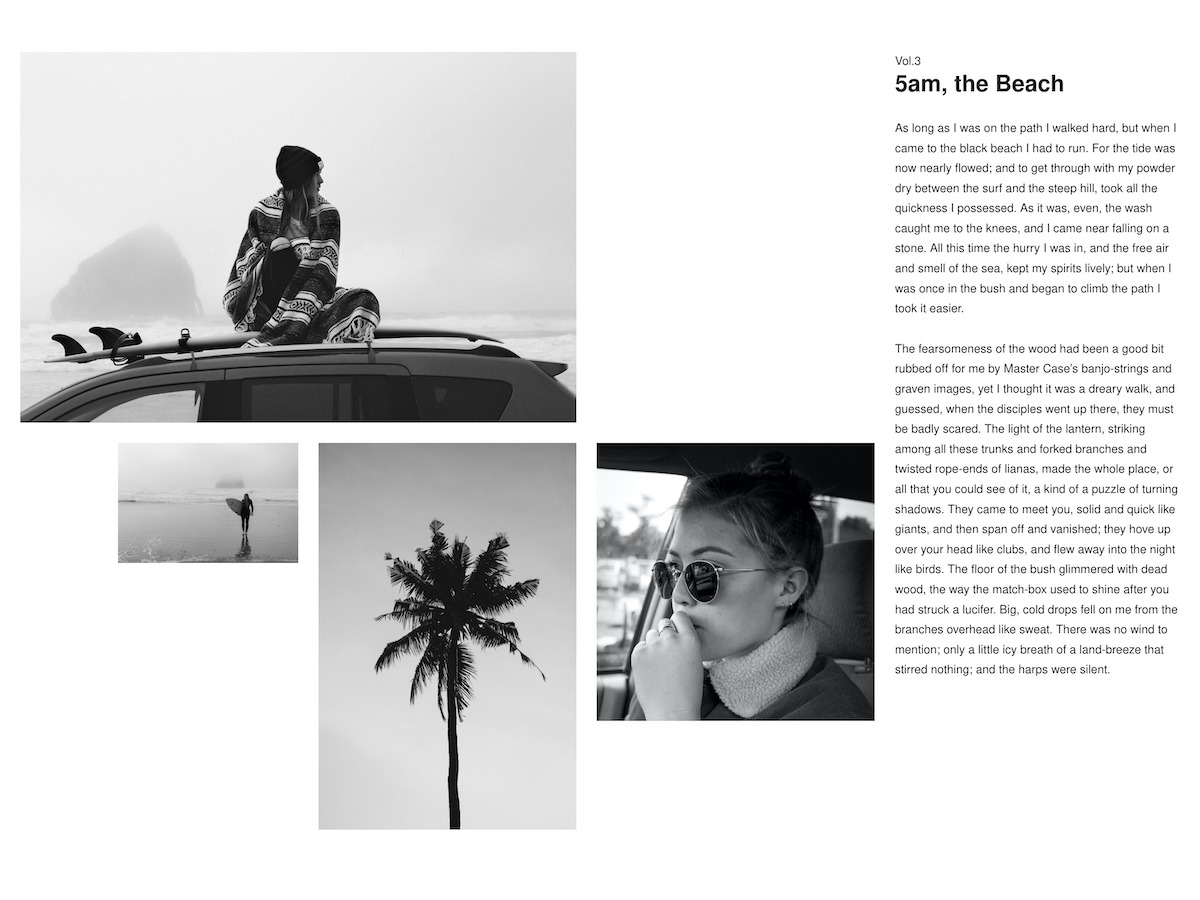
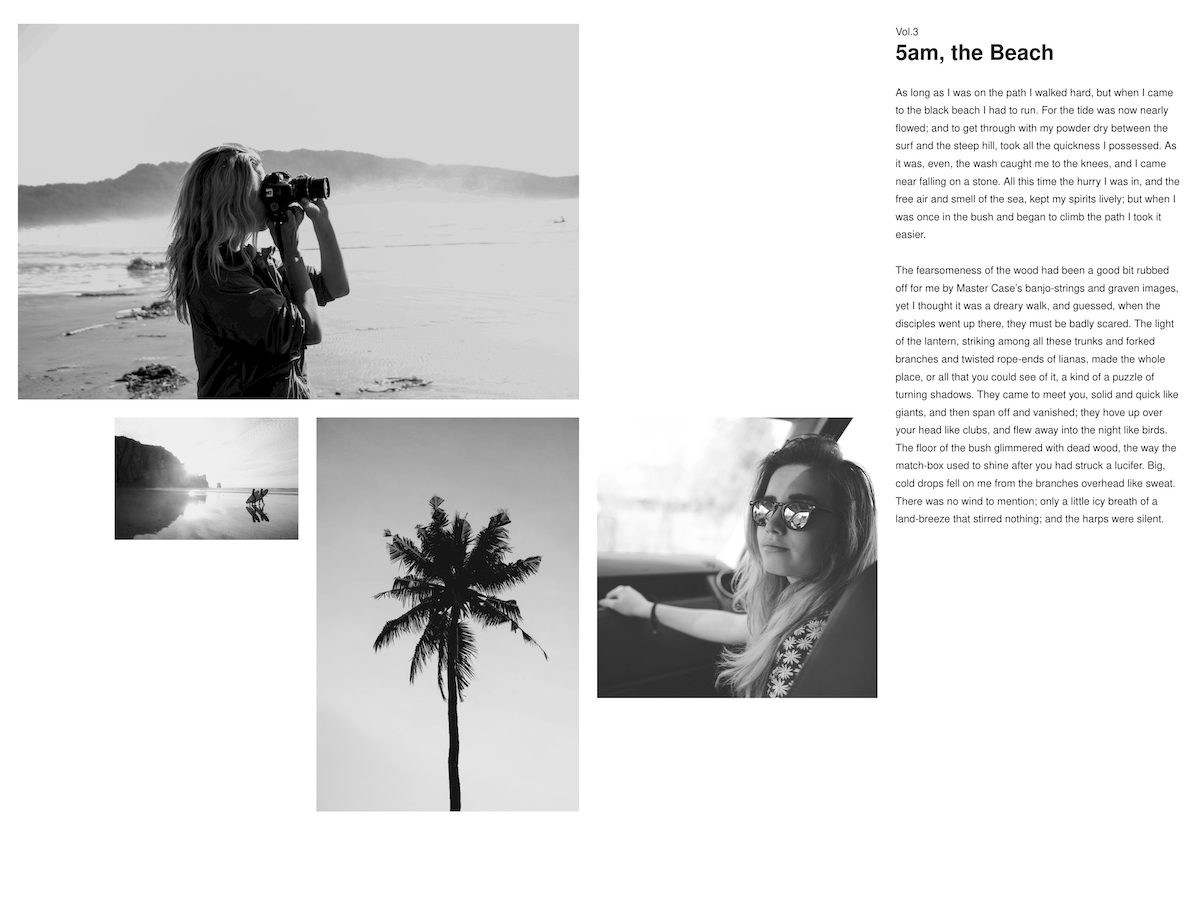
Replace images
Replace images with the wrong license, update readme, screenshot, and homepage pattern.

Changed region(s): [[0.0, 0.0, 0.9867, 0.8089], [0.2467, 0.56, 0.4933, 0.9333]]

diff --git a/storia/patterns/gallery.php b/storia/patterns/gallery.php
@@ -12,8 +12,8 @@
 <div class="wp-block-columns"><!-- wp:column {"width":"75%"} -->
 <div class="wp-block-column" style="flex-basis:75%"><!-- wp:columns -->
 <div class="wp-block-columns"><!-- wp:column {"width":"66.66%"} -->
-<div class="wp-block-column" style="flex-basis:66.66%"><!-- wp:image {"id":1015,"sizeSlug":"full"} -->
-<figure class="wp-block-image size-full"><img src="<?php echo esc_url( get_template_directory_uri() ); ?>/assets/images/autri-taheri-wjdu5pkwyeo-unsplash-1.jpg" alt="" class="wp-image-1015"/></figure>
+<div class="wp-block-column" style="flex-basis:66.66%"><!-- wp:image {"sizeSlug":"full"} -->
+<figure class="wp-block-image size-full"><img src="<?php echo esc_url( get_template_directory_uri() ); ?>/assets/images/pexels-susn-dybvik-3328247.jpg" alt="" /></figure>
 <!-- /wp:image --></div>
 <!-- /wp:column -->
 
@@ -30,22 +30,22 @@
 <!-- /wp:column -->
 
 <!-- wp:column {"width":"35%"} -->
-<div class="wp-block-column" style="flex-basis:35%"><!-- wp:image {"id":1002,"sizeSlug":"full"} -->
-<figure class="wp-block-image size-full"><img src="<?php echo esc_url( get_template_directory_uri() ); ?>/assets/images/autri-taheri-ceyi_5a-hcg-unsplash.jpg" alt="" class="wp-image-1002"/></figure>
+<div class="wp-block-column" style="flex-basis:35%"><!-- wp:image {"sizeSlug":"full"} -->
+<figure class="wp-block-image size-full"><img src="<?php echo esc_url( get_template_directory_uri() ); ?>/assets/images/pexels-jeremy-bishop-2923590.jpg" alt="" /></figure>
 <!-- /wp:image --></div>
 <!-- /wp:column -->
 
 <!-- wp:column {"width":"50%"} -->
-<div class="wp-block-column" style="flex-basis:50%"><!-- wp:image {"id":1005,"sizeSlug":"full"} -->
-<figure class="wp-block-image size-full"><img src="<?php echo esc_url( get_template_directory_uri() ); ?>/assets/images/oliver-sjostrom-2ojhvhpxrza-unsplash.jpg" alt="" class="wp-image-1005"/></figure>
+<div class="wp-block-column" style="flex-basis:50%"><!-- wp:image {"sizeSlug":"full"} -->
+<figure class="wp-block-image size-full"><img src="<?php echo esc_url( get_template_directory_uri() ); ?>/assets/images/StockSnap_MGCKAHKLE4.jpg" alt="" /></figure>
 <!-- /wp:image --></div>
 <!-- /wp:column --></div>
 <!-- /wp:columns --></div>
 <!-- /wp:column -->
 
 <!-- wp:column {"width":"33.33%"} -->
-<div class="wp-block-column" style="flex-basis:33.33%"><!-- wp:image {"id":1001,"sizeSlug":"full"} -->
-<figure class="wp-block-image size-full"><img src="<?php echo esc_url( get_template_directory_uri() ); ?>/assets/images/autri-taheri-w72una-s9ry-unsplash.jpg" alt="" class="wp-image-1001"/></figure>
+<div class="wp-block-column" style="flex-basis:33.33%"><!-- wp:image {"sizeSlug":"full"} -->
+<figure class="wp-block-image size-full"><img src="<?php echo esc_url( get_template_directory_uri() ); ?>/assets/images/StockSnap_KN1R3C4LHY.jpg" alt="" /></figure>
 <!-- /wp:image --></div>
 <!-- /wp:column --></div>
 <!-- /wp:columns --></div>
